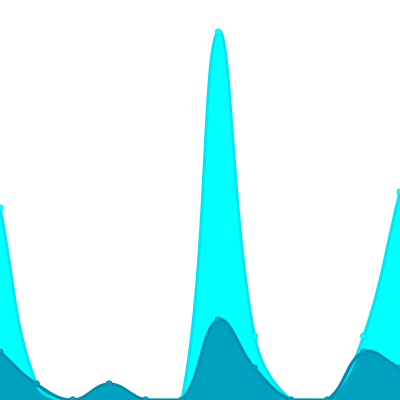
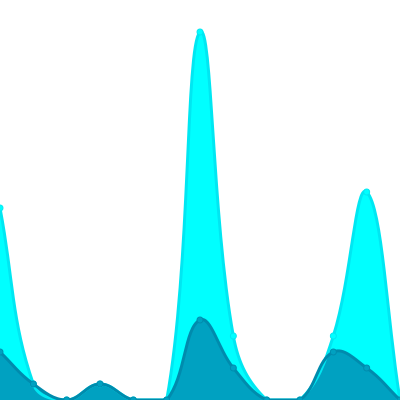
Update views

diff --git a/README.md b/README.md
@@ -26,7 +26,7 @@ The project created and maintained by [gayanvoice](https://github.com/gayanvoice
 			</a>
 		</td>
 		<td>
-			2024/10/30 12:57 AM UTC
+			2024/10/31 12:57 AM UTC
 		</td>
 		<td>
 			28
@@ -37,7 +37,7 @@ The project created and maintained by [gayanvoice](https://github.com/gayanvoice
 	</tr>
 </table>
 
-<small><i>Last updated on 2024/11/1 6:15 PM UTC</i></small>
+<small><i>Last updated on 2024/11/2 12:56 AM UTC</i></small>
 
 ## ✂Copy and 📋 Paste
 ### Total Views Badge

diff --git a/readme/254276202/year.md b/readme/254276202/year.md
@@ -20,6 +20,17 @@
 	</tr>
 	<tr>
 		<td>
+			<code>2024/11/1</code>
+		</td>
+		<td>
+			<code>0</code>
+		</td>
+		<td>
+			<code>0</code>
+		</td>
+	</tr>
+	<tr>
+		<td>
 			<code>2024/10/1</code>
 		</td>
 		<td>
@@ -153,7 +164,7 @@
 </table>
 
 </details>
-<small><i>Last updated on 2024/11/1 6:15 PM UTC</i></small>
+<small><i>Last updated on 2024/11/2 12:55 AM UTC</i></small>
 
 ## ✂Copy and 📋 Paste
 ### SVG Badge
